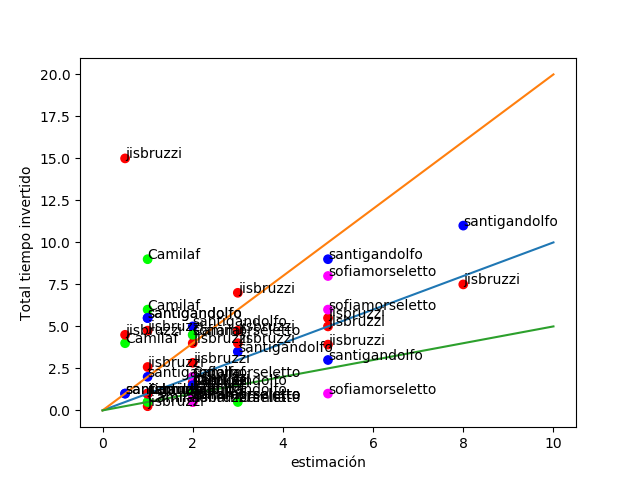
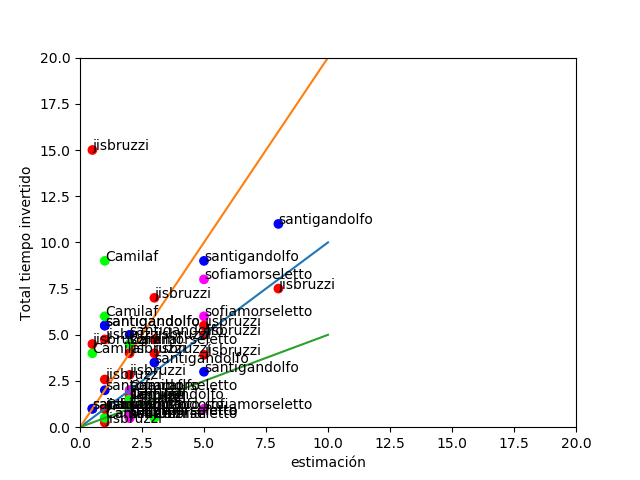
#53 escribo HU37

diff --git a/scrap-horas/visu-horas.py b/scrap-horas/visu-horas.py
@@ -11,7 +11,7 @@ for issue in full_explanations:
     explanations[issue]={}
     efforts=explanations[issue]
     for effort in full_explanations[issue]:
-        if effort["date"]<'2018-10-16T00:00:00Z':
+        if effort["date"]<'2018-10-02T00:00:00Z':
             continue
         print("===========")
         print(issue)
@@ -94,6 +94,8 @@ def mostrar_puntos(con_labels,por_repos):
     ax.plot([0,10],[0,5])
     ax.scatter(x,y,c=colors)
     plt.xlabel("estimación")
+    plt.xlim(0,20)
+    plt.ylim(0,20)
     plt.ylabel("Total tiempo invertido")
 
     if con_labels:
@@ -170,7 +172,13 @@ def mostrar_columnas_personas():
     plt.clf()
 
 def mostrar_burndown():
+    print("##################")
+    print("##################")
+    print("##################")
     print(events)
+    print("##################")
+    print("##################")
+    print("##################")
 
     times=sorted(events.keys())
     events_ordered=[events[t] for t in times]
@@ -193,7 +201,7 @@ def mostrar_burndown():
 
     times=[arrow.get(t).timestamp for t in times]
     plt.plot(times,real_hours)
-    plt.plot(times,estimation_hours)
+    #plt.plot(times,estimation_hours)
     plt.plot([times[0],times[len(times)-1]],[0,0])
     plt.show()
 
@@ -214,14 +222,14 @@ def mostrar_lista():
 
 
 #mostrar_lista()
-#mostrar_burndown()
+mostrar_burndown()
 #mostrar_puntos(False,False)
 #mostrar_puntos(False,True)
 #mostrar_puntos(True,False)
 #mostrar_puntos(True,True)
 mostrar_columnas_personas()
-mostrar_columnas_repo()
-##mostrar_columnas_repo()
+#mostrar_columnas_repo()
+#mostrar_columnas_repo()
 
 
 

diff --git a/HU37-alta-período-lectivo.md b/HU37-alta-período-lectivo.md
@@ -1,0 +1,27 @@
+# Como administrador, quiero dar de alta un período lectivo
+
+## Criterios de aceptación
+1. Un período lectivo está conformado por los siguientes campos:
+    1. Fecha de **publicación de la oferta académica**.
+    2. Fecha de inicio del **Período de inscripción a cursos**.
+    3. Fecha de fin del **Período de inscripción a cursos**.
+    4. Fecha de inicio del **período de cursada**.
+    5. Fecha de fin del **período de desinscripción a cursos**.
+    6. Fecha de **publicación de la oferta de finales**.
+    7. Fecha de fin del **período de  cursada**.
+    8. Fecha de fin del **período de finales**.
+    9. Código del período lectivo
+2. Los campos 1 a 8, que son fechas, deben ser consecutivos en el tiempo en el orden que se presentaron, es decir, el 2 debe ser posterior al 1, el 3 debe ser posterior al 2, el 4 debe ser posterior al 3, etc.
+3. Los estudiantes sólo podrán consultar los cursos disponibles entre la fecha de publicación de la oferta académica y la fecha de fin de cursada.
+4. Los estudiantes sólo podrán inscribirse a cursos durante el período de inscripción a cursos.
+5. Los estudiantes sólo podrán desinscribirse a cursos desde la fecha de início del período de inscripción a cursos y hasta la fecha de fin del período de desinscripción a cursos.
+6. Los estudiantes sólo podrán inscribirse o desinscribirse a finales entre la fecha de publicación de la oferta de finales y el fin del período de finales.
+7. Los profesores sólo podrán crear finales que tengan lugar entre la fecha de fin de cursada y la fecha de fin del período de finales.
+8. El código del período lectivo tiene como mucho 10 caracteres
+
+![Períodos](./HU37-esquema.png)
+
+
+
+## Prototipos
+![](./prototipos/administrador-v2/crear_periodo.png)
